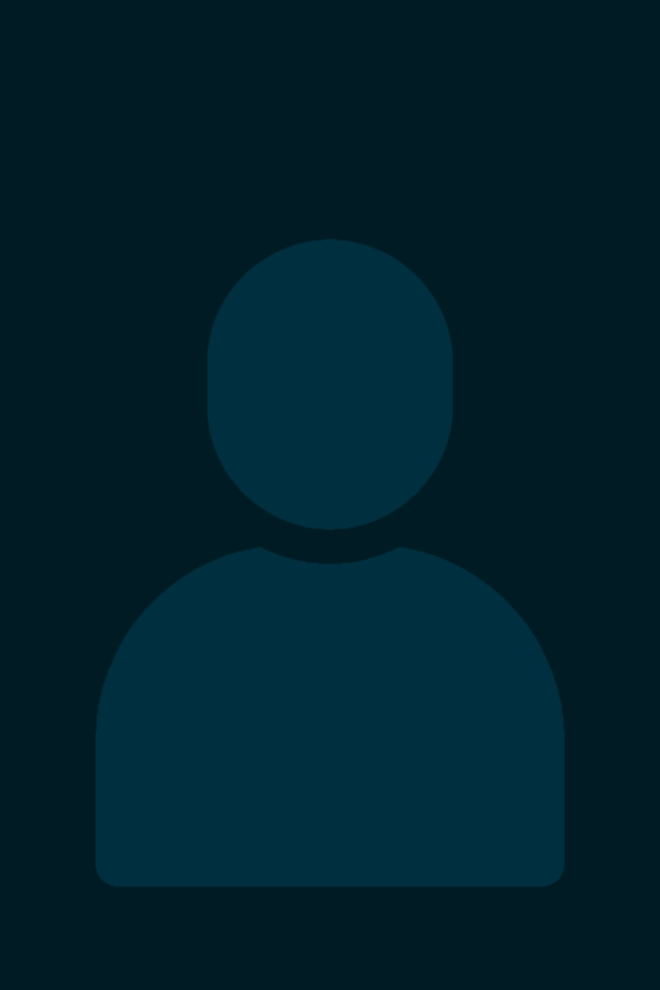
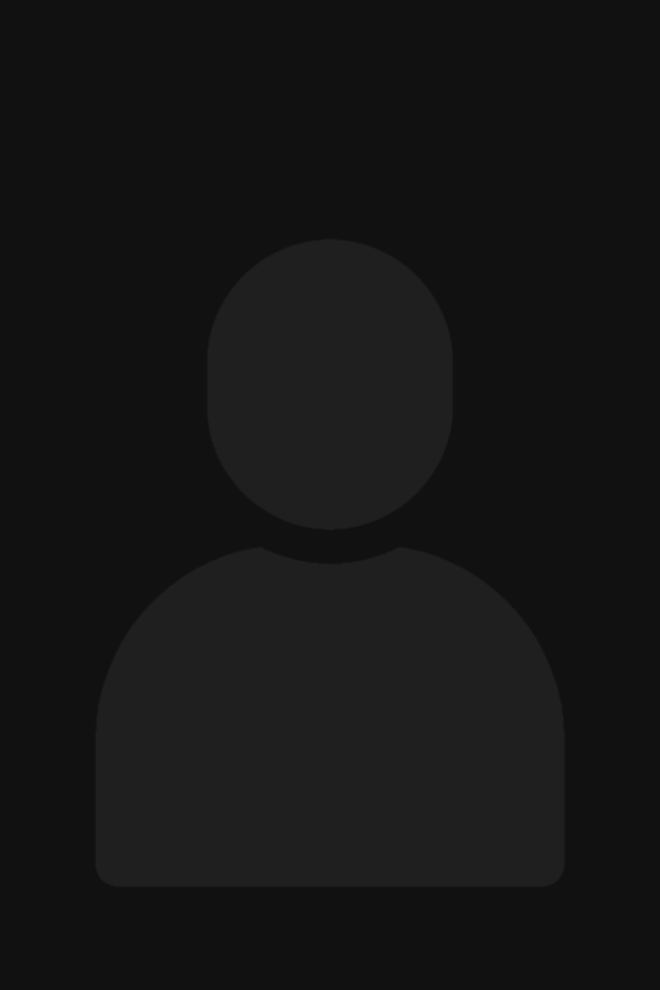
Changed theme to monochromatic

diff --git a/src/components/Navigation/styled.jsx b/src/components/Navigation/styled.jsx
@@ -4,15 +4,14 @@ import { ReactComponent as Menu } from "../../assets/icons/menu.svg";
 
 export const Wrapper = styled.nav`
  width: 100%;
- background: linear-gradient(
-  ${({ theme }) => `${theme.colors.tile.background}`},
-  ${({ theme }) => `${theme.colors.tile.background}dd`}
- );
+ background: ${({ theme }) =>
+  `linear-gradient(${theme.colors.site.background}, ${theme.colors.site.background}dd)`};
  height: 50px;
  position: fixed;
  top: 0;
  z-index: 2;
  backdrop-filter: blur(2px);
+ box-shadow: 0 0 15px 0 black;
 `;
 
 export const Container = styled.div`
@@ -69,7 +68,7 @@ export const MenuHeader = styled.div`
 
 export const MenuButton = styled(Menu)`
  display: none;
- color: ${({ theme }) => theme.colors.site.primaryText};
+ color: ${({ theme }) => theme.colors.site.text};
  height: 28px;
  width: 28px;
  cursor: pointer;
@@ -87,8 +86,8 @@ export const MenuLogo = styled.div`
  align-items: center;
  font-size: 24px;
  font-weight: 700;
- color: ${({ theme }) => theme.colors.site.primaryText};
- text-shadow: 0 0 15px ${({ theme }) => theme.colors.site.primaryText};
+ color: ${({ theme }) => theme.colors.site.text};
+ text-shadow: 0 0 15px ${({ theme }) => theme.colors.site.text};
  text-decoration: none;
 `;
 

diff --git a/src/components/Logo/styled.jsx b/src/components/Logo/styled.jsx
@@ -5,8 +5,7 @@ export const Wrapper = styled(NavLink)`
  width: min-content;
  font-size: 32px;
  font-weight: 700;
- color: ${({ theme }) => theme.colors.site.primaryText};
- text-shadow: 0 0 15px ${({ theme }) => theme.colors.site.primaryText};
+ color: ${({ theme }) => theme.colors.site.text};
  text-decoration: none;
 
  @media (max-width: ${({ theme }) => theme.breakpoints.s}) {

diff --git a/src/components/Loader/styled.jsx b/src/components/Loader/styled.jsx
@@ -9,7 +9,7 @@ export const Container = styled.div`
 `;
 
 export const Item = styled.div`
- background-color: ${({ theme }) => theme.colors.site.primaryText};
+ background-color: ${({ theme }) => theme.colors.site.text};
  display: inline-block;
  position: absolute;
  left: 8px;

diff --git a/src/styles/theme.jsx b/src/styles/theme.jsx
@@ -2,7 +2,7 @@ const colorNames = {
  White: "#FFFFFF",
  Black: "#000000",
  Raven: "#0a0a0a",
- DarkGrey: "#171717",
+ DarkGrey: "hsl(0, 0%, 10%)",
  Grey: "#262626",
  LightGrey: "#737373",
  FadedBlack: "#00000050"
